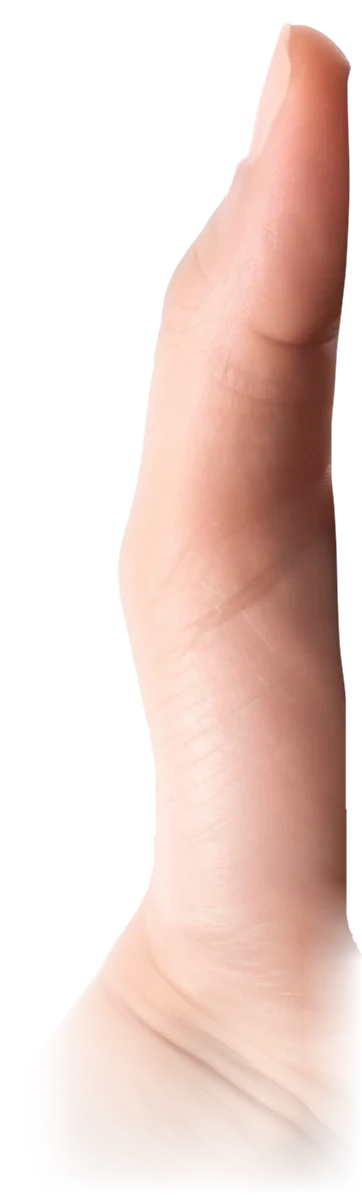
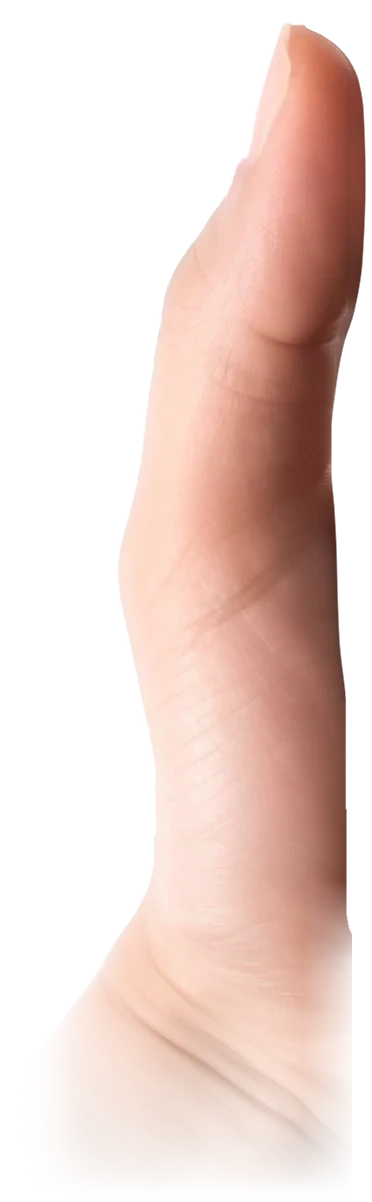
Rounded fingertip (the photo hides the thumb's pad behind the phone, so it's drawn in); palm keeps its exact shape while the thumb moves

diff --git a/hand.js b/hand.js
@@ -10,17 +10,18 @@
   // ---- Photo geometry, in pixels of the 1245x1762 layers ----
   var IMG_W = 1245, IMG_H = 1762;
   var SCREEN = { tl: [406.7, 57.0], tr: [1066.1, 68.3], br: [1049.7, 1503.0], bl: [390.0, 1495.0] };
-  var HAND_BOX = [0, 560, 362, 1762];        // the moving piece: the thumb and the ball of the hand, down to the wrist
+  var HAND_BOX = [0, 560, 372, 1762];        // the moving piece: the thumb and the ball of the hand, down to the wrist (a little past the
+                                             // phone's edge, where the thumb's rounded pad is drawn in: the photo hides it behind the phone)
   var PIVOT = [320, 1215];                   // where the thumb swings from: its base knuckle, on the web side, where it leaves the palm (the palm keeps holding the phone)
   var PAD = [300, 600];                      // with the pivot, sets the thumb's axis (x runs along it)
   var TOUCH_PT = [307, 615];                 // the middle of the tip at rest: what meets the glass
 
   // ---- The joints, as fractions of the thumb's length from its base (the tip is 1) ----
-  // The thumb turns at its base (across ROOT), the ball of the thumb leaning a little with it
-  // (the turn is shared down into it, not taken all at the knuckle, which looked rubbery). Its
+  // The thumb turns at its base (across ROOT), where it leaves the palm; the palm itself keeps its
+  // exact shape from the photo. Its
   // two knuckles bend over short hinge zones (HINGE each side), with straight bone between them:
   // the base knuckle (MCP) just above the pivot, the top one (IP) at the crease.
-  var ROOT = [-0.3, 0.1], MCP = 0.08, IP = 0.5, HINGE = { mcp: 0.09, ip: 0.06 };
+  var ROOT = [-0.12, 0.12], MCP = 0.08, IP = 0.5, HINGE = { mcp: 0.09, ip: 0.06 };
   // For a nearer key the thumb bends (flexes) at both knuckles: up to BEND.max radians in all, the
   // last knuckle taking most of it, the way a thumb curls its tip onto a key.
   var BEND = { mcp: 0.3, ip: 0.7, max: 2.4 };
@@ -162,12 +163,12 @@
     }
     return pts;
   })();
-  // [x, y, share of the grip's shift it follows]: the wrist, the heel under the phone and the palm's
-  // edge against the phone stay put (the palm keeps holding the phone while the thumb moves), so
-  // the hand never tears where the pieces meet
+  // [x, y, share of the grip's shift it follows]: the whole palm (ball of the hand, its edges, the heel
+  // under the phone) and the wrist stay exactly as in the photo while the thumb moves
   var PINS = [[40, 1700, 0], [150, 1700, 0], [130, 1740, 0], [230, 1762, 0], [300, 1760, 0], [340, 1700, 0], [340, 1620, 0],
               [345, 1560, 0], [420, 1570, 0], [560, 1600, 0], [720, 1640, 0], [110, 1590, 0], [200, 1630, 0], [300, 1630, 0],
-              [345, 1340, 0], [345, 1420, 0], [345, 1480, 0], [150, 1520, 0], [250, 1530, 0]];
+              [120, 1250, 0], [130, 1320, 0], [150, 1400, 0], [155, 1470, 0], [230, 1330, 0], [310, 1310, 0], [345, 1300, 0],
+              [345, 1380, 0], [250, 1440, 0], [345, 1460, 0]];
   // The mesh covers the moving piece; everything right of it (the heel under the phone, the
   // fingers, the phone's outline) is the still palm piece.
   var WARP = { x0: 0, y0: HAND_BOX[1], y1: IMG_H, step: 24, xmax: HAND_BOX[2] };

diff --git a/index.html b/index.html
@@ -60,7 +60,7 @@
       <video src="video/request-flow.mp4?v=6" poster="video/request-flow.jpg?v=5" width="604" height="1312" autoplay muted playsinline preload="auto" aria-label="A short video of someone holding an iPhone and requesting an office in OfficeSwap with their thumb: they tap Request an Office, pick Tuesday and Wednesday, and get an office for both days."></video>
       <img class="hold-phone" src="images/hand/phone.webp?v=5" alt="" width="1245" height="1762">
       <img class="hold-still" src="images/hand/handhold.webp?v=14" alt="" width="1245" height="1762">
-      <canvas class="hold-hand" aria-hidden="true" data-thumb="images/hand/thumb.webp?v=12" data-palm="images/hand/palm.webp?v=12"></canvas>
+      <canvas class="hold-hand" aria-hidden="true" data-thumb="images/hand/thumb.webp?v=13" data-palm="images/hand/palm.webp?v=13"></canvas>
     </div>
     <button type="button" class="replay" hidden aria-label="Play the video again"><svg viewBox="0 0 24 24" fill="none" stroke="currentColor" stroke-width="2" stroke-linecap="round" stroke-linejoin="round" aria-hidden="true"><path d="M3.5 12a8.5 8.5 0 1 0 2.6-6.1"/><path d="M3.5 4v4.5H8"/></svg></button>
   </div>
@@ -256,7 +256,7 @@
       <video src="video/request-flow.mp4?v=6" poster="video/request-flow.jpg?v=5" width="604" height="1312" muted playsinline preload="metadata" data-play="in-view" aria-label="The same short video: someone holding an iPhone and requesting an office in OfficeSwap with their thumb: they tap Request an Office, pick Tuesday and Wednesday, and get an office for both days."></video>
       <img class="hold-phone" src="images/hand/phone.webp?v=5" alt="" width="1245" height="1762">
       <img class="hold-still" src="images/hand/handhold.webp?v=14" alt="" width="1245" height="1762">
-      <canvas class="hold-hand" aria-hidden="true" data-thumb="images/hand/thumb.webp?v=12" data-palm="images/hand/palm.webp?v=12"></canvas>
+      <canvas class="hold-hand" aria-hidden="true" data-thumb="images/hand/thumb.webp?v=13" data-palm="images/hand/palm.webp?v=13"></canvas>
     </div>
     <button type="button" class="replay" hidden aria-label="Play the video again"><svg viewBox="0 0 24 24" fill="none" stroke="currentColor" stroke-width="2" stroke-linecap="round" stroke-linejoin="round" aria-hidden="true"><path d="M3.5 12a8.5 8.5 0 1 0 2.6-6.1"/><path d="M3.5 4v4.5H8"/></svg></button>
   </div>
@@ -589,6 +589,6 @@
     document.addEventListener("click", function (e) { if (m.open && !m.contains(e.target)) m.removeAttribute("open"); });
   })();
 </script>
-<script src="hand.js?v=33" defer></script>
+<script src="hand.js?v=34" defer></script>
 </body>
 </html>
